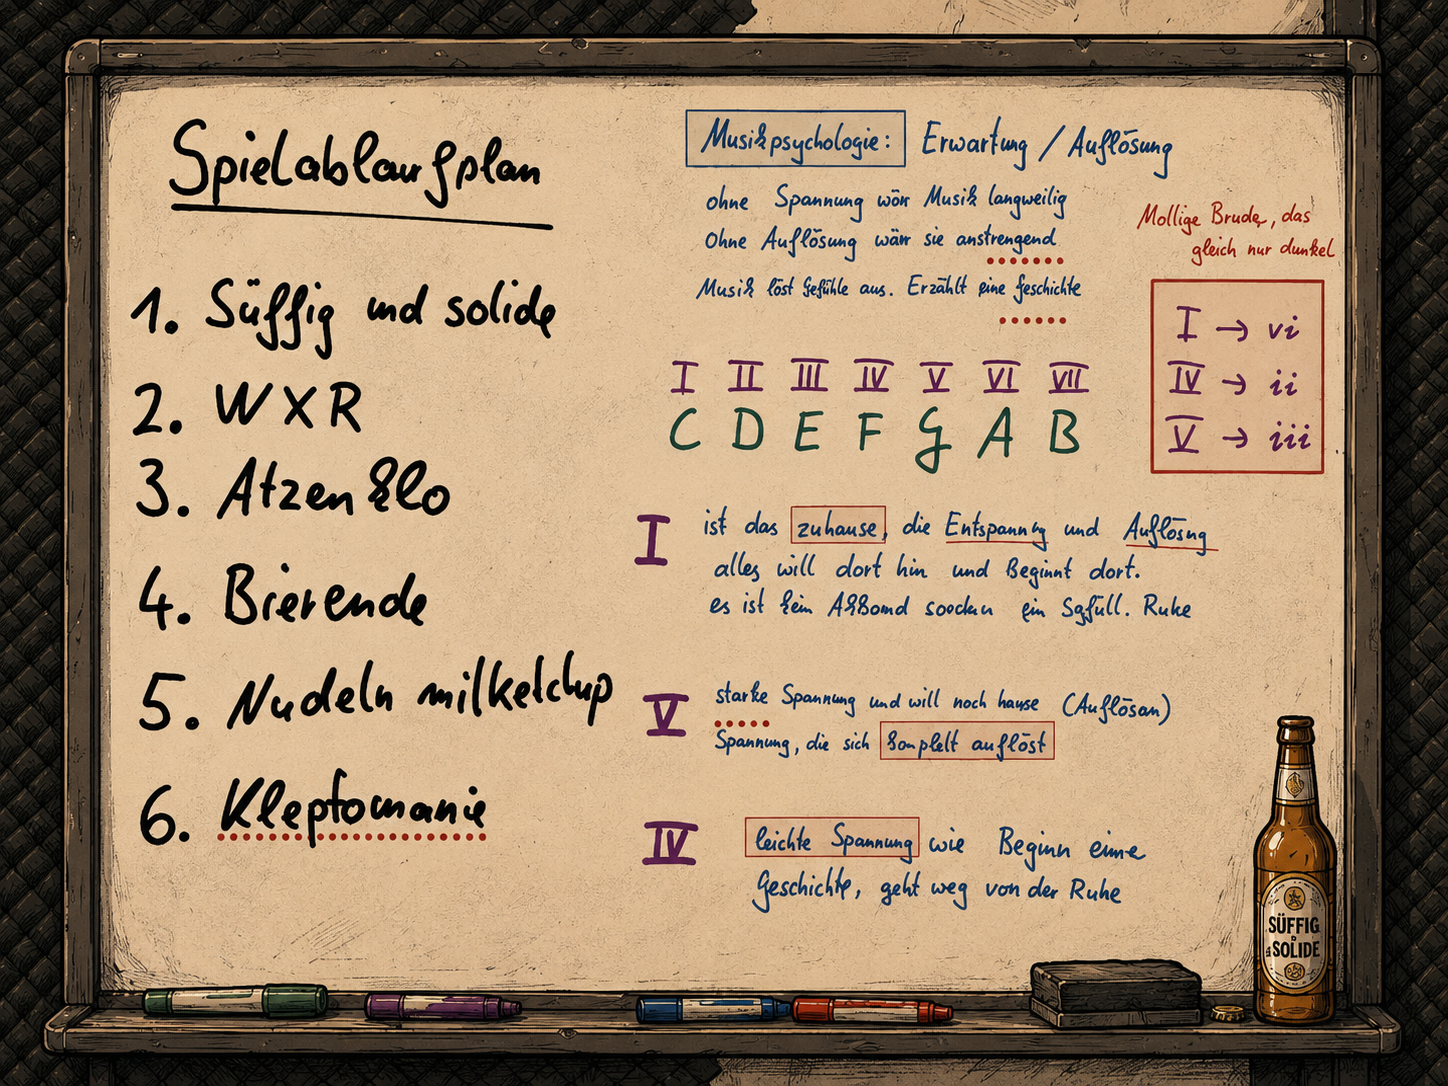
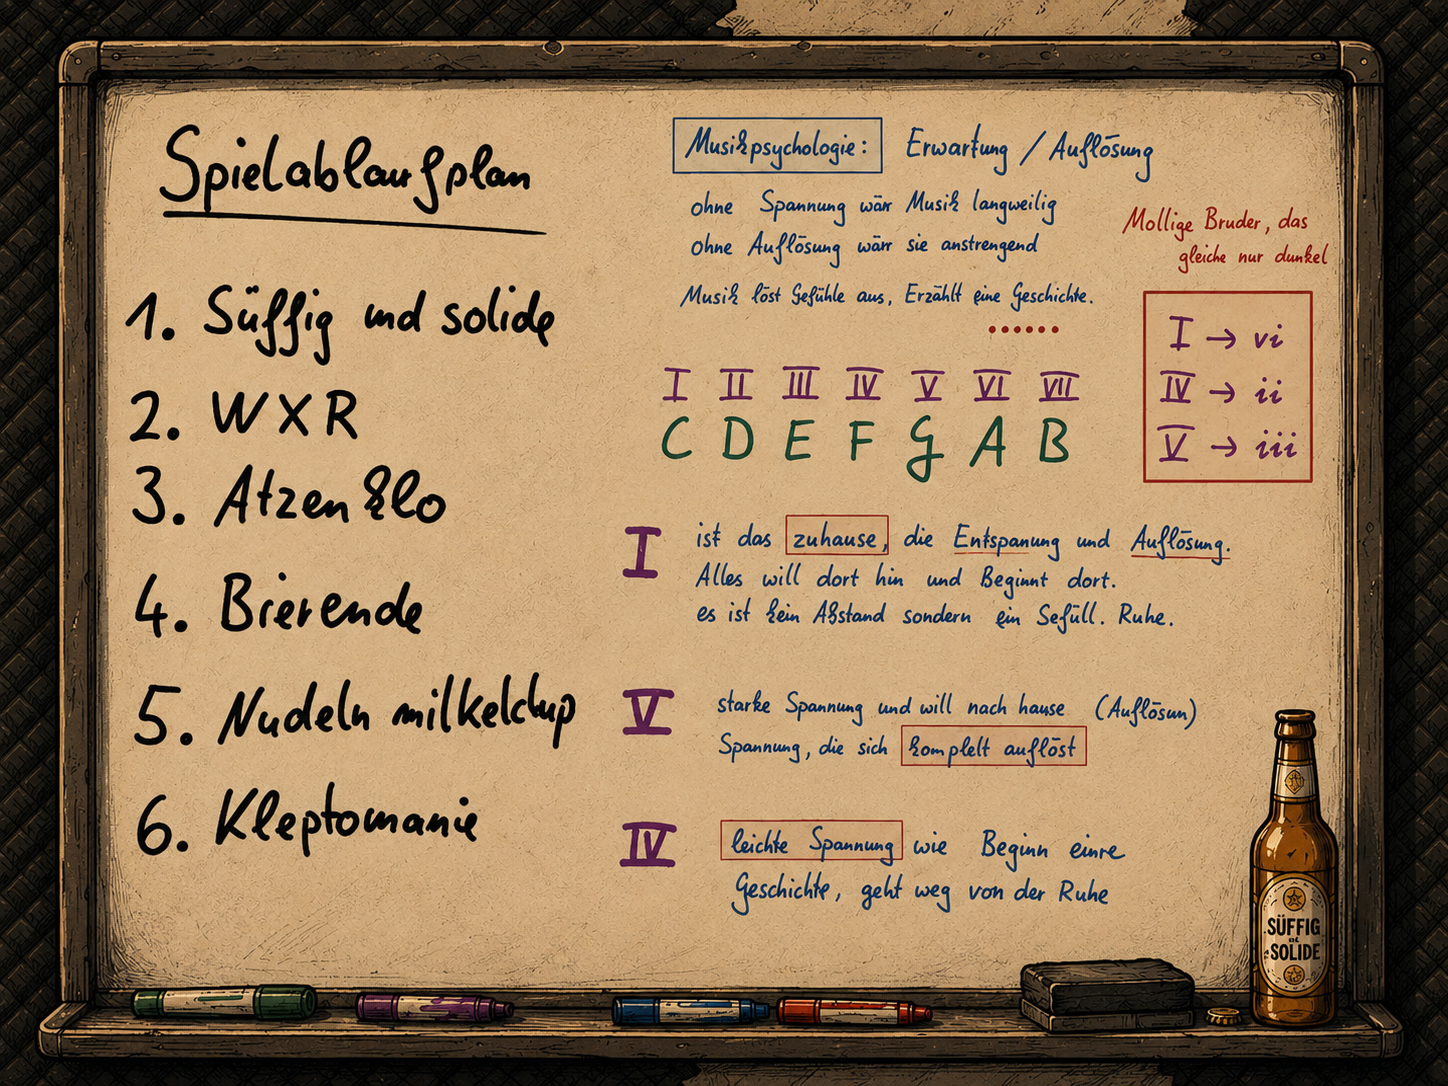
handy verbessert

diff --git a/style.css b/style.css
@@ -27,78 +27,6 @@ button {
   font: inherit;
 }
 
-.rotate-phone {
-  position: fixed;
-  z-index: 30;
-  right: max(10px, env(safe-area-inset-right));
-  bottom: max(10px, env(safe-area-inset-bottom));
-  left: max(10px, env(safe-area-inset-left));
-  display: none;
-  color: var(--text);
-  pointer-events: none;
-  text-align: left;
-}
-
-.rotate-phone-card {
-  width: min(100%, 430px);
-  display: grid;
-  grid-template-columns: auto minmax(0, 1fr) auto;
-  align-items: center;
-  gap: 10px;
-  border: 1px solid rgba(255, 240, 199, 0.44);
-  border-radius: 8px;
-  background: rgba(18, 17, 15, 0.94);
-  padding: 8px 10px;
-  box-shadow: 0 22px 60px rgba(0, 0, 0, 0.48);
-  pointer-events: auto;
-  backdrop-filter: blur(8px);
-}
-
-.rotate-phone-icon {
-  display: inline-grid;
-  width: 32px;
-  height: 32px;
-  place-items: center;
-  border: 1px solid rgba(240, 180, 71, 0.6);
-  border-radius: 999px;
-  color: var(--accent-strong);
-  font-size: 1.1rem;
-  line-height: 1;
-  transform: rotate(90deg);
-}
-
-.rotate-phone p {
-  margin: 0 0 3px;
-  font-size: 0.78rem;
-  font-weight: 800;
-  line-height: 1.12;
-}
-
-.rotate-phone small {
-  display: block;
-  color: var(--muted);
-  font-size: 0.68rem;
-  font-weight: 800;
-  line-height: 1.28;
-}
-
-.rotate-phone-close {
-  width: 28px;
-  height: 28px;
-  border: 1px solid rgba(255, 240, 199, 0.28);
-  border-radius: 8px;
-  background: rgba(0, 0, 0, 0.22);
-  color: var(--text);
-  cursor: pointer;
-  font-size: 1rem;
-  font-weight: 800;
-  line-height: 1;
-}
-
-.rotate-phone.is-hidden {
-  display: none !important;
-}
-
 .game {
   min-height: 100vh;
   min-height: 100svh;
@@ -803,18 +731,14 @@ h1 {
 
 @media (hover: none) and (pointer: coarse) and (orientation: portrait) {
   body {
-    overflow-x: auto;
+    overflow-x: hidden;
     overflow-y: auto;
   }
 
-  .rotate-phone {
-    display: block;
-  }
-
   .game {
-    width: max-content;
-    min-width: 100vw;
-    padding-bottom: 86px;
+    width: 100%;
+    min-width: 0;
+    padding-bottom: max(10px, env(safe-area-inset-bottom));
   }
 
   .topbar {
@@ -855,10 +779,10 @@ h1 {
   }
 
   .stage {
-    width: 172vw;
+    width: 100%;
     max-height: none;
     margin-top: 0;
-    justify-self: start;
+    justify-self: center;
   }
 
 }

diff --git a/index.html b/index.html
@@ -4,20 +4,9 @@
     <meta charset="UTF-8" />
     <meta name="viewport" content="width=device-width, initial-scale=1.0" />
     <title>Sueffig & Solide - The Game</title>
-    <link rel="stylesheet" href="style.css?v=18" />
+    <link rel="stylesheet" href="style.css?v=19" />
   </head>
   <body>
-    <aside id="rotateHint" class="rotate-phone" aria-label="Handy drehen">
-      <div class="rotate-phone-card">
-        <span class="rotate-phone-icon" aria-hidden="true">↻</span>
-        <div>
-          <p>Querformat ist bequemer</p>
-          <small>Im Hochformat kannst du den Raum seitlich verschieben.</small>
-        </div>
-        <button id="rotateHintClose" class="rotate-phone-close" type="button" aria-label="Hinweis schliessen">×</button>
-      </div>
-    </aside>
-
     <main class="game">
       <header class="topbar">
         <div>
@@ -136,6 +125,6 @@
     </main>
 
     <audio id="backgroundMusic" src="Hintergrundmusik/Atzenklo.mp3" preload="none" loop></audio>
-    <script src="script.js?v=17"></script>
+    <script src="script.js?v=18"></script>
   </body>
 </html>

diff --git a/script.js b/script.js
@@ -10,8 +10,6 @@ const helpButton = document.querySelector("#helpButton");
 const musicButton = document.querySelector("#musicButton");
 const restartButton = document.querySelector("#restartButton");
 const backgroundMusic = document.querySelector("#backgroundMusic");
-const rotateHint = document.querySelector("#rotateHint");
-const rotateHintClose = document.querySelector("#rotateHintClose");
 const hotspots = document.querySelectorAll(".hotspot");
 const beerButtons = document.querySelectorAll(".beer");
 const songSteps = document.querySelectorAll(".song-step");
@@ -426,9 +424,6 @@ boardOverlay.addEventListener("click", hideBoardOverlay);
 posterOverlay.addEventListener("click", hidePosterOverlay);
 backgroundMusic.addEventListener("play", render);
 backgroundMusic.addEventListener("pause", render);
-rotateHintClose.addEventListener("click", () => {
-  rotateHint.classList.add("is-hidden");
-});
 
 restartButton.addEventListener("click", () => {
   const keepHelpMode = state.isHelping;